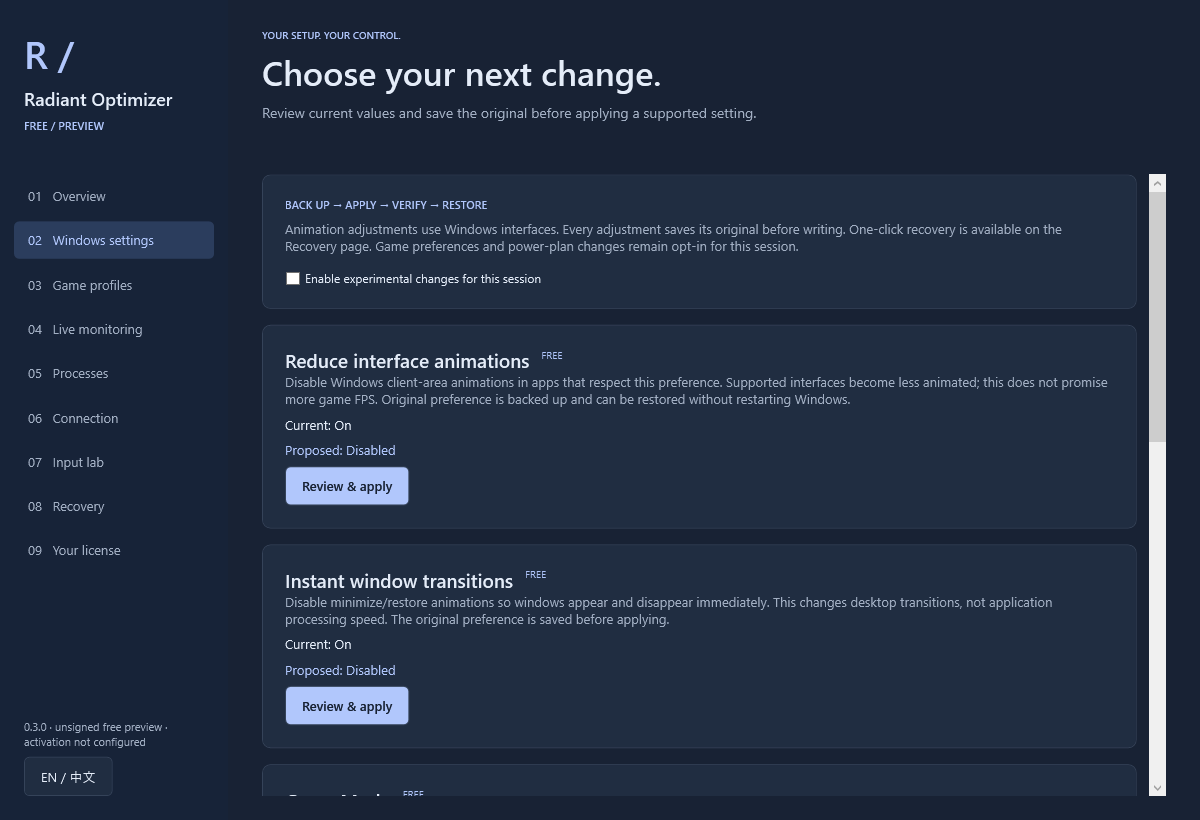
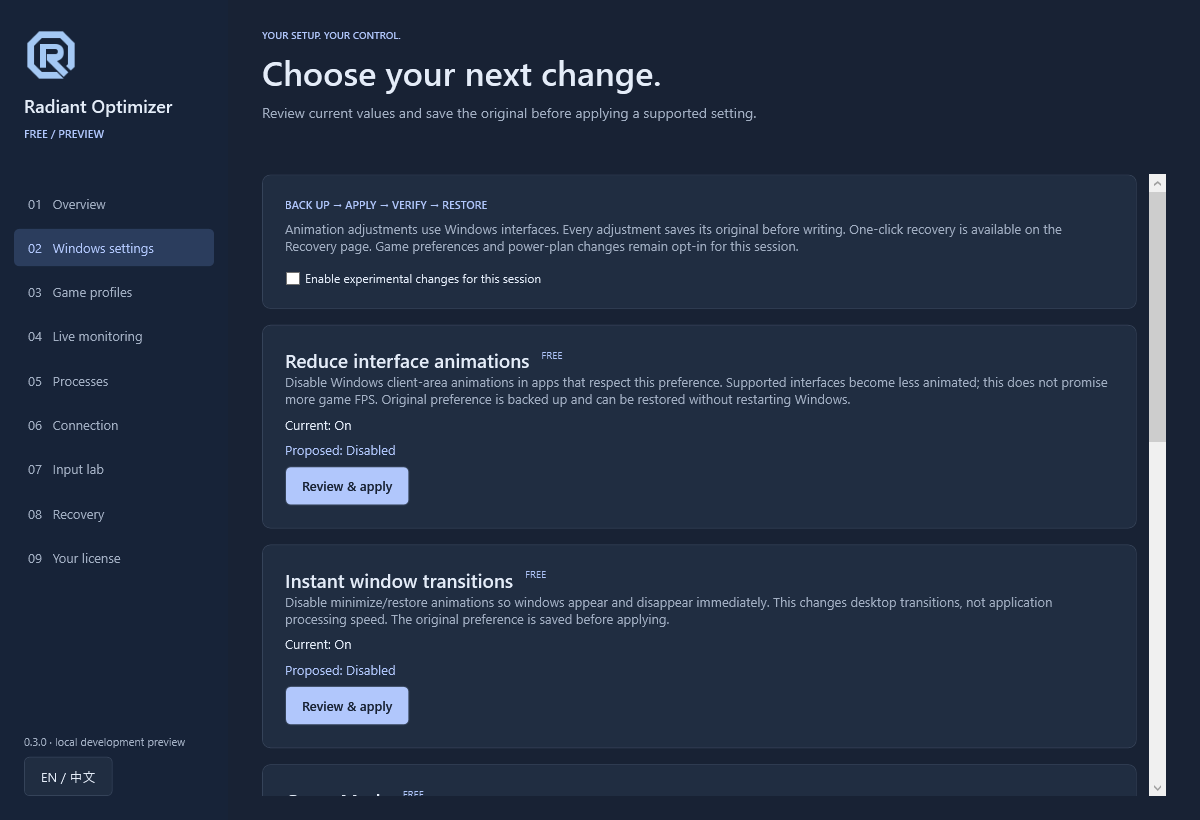
feat: introduce RO monogram across web and desktop

diff --git a/src/styles/design-previews.css b/src/styles/design-previews.css
@@ -149,14 +149,11 @@ body:has(.design-previews) .tsqd-open-btn-container {
   white-space: nowrap;
 }
 .pv-brand-mark {
-  display: grid;
-  place-items: center;
-  width: 29px;
-  height: 32px;
-  color: var(--pv-accent);
-  font-family: 'Libre Baskerville', Georgia, serif;
-  font-size: 31px;
-  font-weight: 400;
+  display: block;
+  width: 36px;
+  height: 36px;
+  flex-shrink: 0;
+  object-fit: contain;
 }
 .pv-header nav {
   display: flex;
@@ -1373,8 +1370,8 @@ body:has(.design-previews) .tsqd-open-btn-container {
     letter-spacing: -0.4px;
   }
   .pv-brand-mark {
-    font-size: 26px;
-    width: 22px;
+    width: 30px;
+    height: 30px;
   }
   .pv-header-download {
     padding: 8px 10px;

diff --git a/src/blocks/radiant/product.tsx b/src/blocks/radiant/product.tsx
@@ -26,9 +26,13 @@ export type PreviewStyle = 'paper' | 'atlas' | 'cinema';
 function PreviewBrand() {
   return (
     <a href="#preview-home" className="pv-brand">
-      <span className="pv-brand-mark" aria-hidden="true">
-        {envConfigs.app_name.slice(0, 1).toLowerCase()}.
-      </span>
+      <img
+        className="pv-brand-mark"
+        src={envConfigs.app_logo || '/logo.svg'}
+        width={36}
+        height={36}
+        alt=""
+      />
       <span>{envConfigs.app_name}</span>
     </a>
   );

diff --git a/src/routes/__root.tsx b/src/routes/__root.tsx
@@ -69,8 +69,13 @@ export const Route = createRootRoute({
         { name: 'description', content: envConfigs.app_description },
       ],
       links: [
+        { rel: 'icon', href: '/favicon.ico', sizes: 'any' },
         { rel: 'icon', href: '/favicon.svg', type: 'image/svg+xml' },
-        { rel: 'apple-touch-icon', href: '/favicon.svg' },
+        {
+          rel: 'apple-touch-icon',
+          href: '/apple-touch-icon.png',
+          sizes: '180x180',
+        },
       ],
     };
   },

diff --git a/src/blocks/radiant/shell.tsx b/src/blocks/radiant/shell.tsx
@@ -25,9 +25,12 @@ export function RadiantShell({
   ];
   const brand = (
     <>
-      <span className="radiant-wordmark" aria-hidden="true">
-        {envConfigs.app_name.slice(0, 1).toLowerCase()}.
-      </span>
+      <img
+        src={envConfigs.app_logo || '/logo.svg'}
+        width={36}
+        height={36}
+        alt=""
+      />
       <span>{envConfigs.app_name}</span>
     </>
   );

diff --git a/src/styles/radiant.css b/src/styles/radiant.css
@@ -23,12 +23,6 @@
   --r-text: #e8edf5;
   --r-lime: #a4c8f4;
 }
-.radiant-cinema .brand .radiant-wordmark {
-  color: #a4c8f4;
-  font-size: 34px;
-  font-weight: 600;
-  letter-spacing: -3px;
-}
 .games-intro {
   padding-block: 48px 32px;
   border-bottom: 1px solid var(--r-border);

diff --git a/desktop/Radiant.App/MainWindow.cs b/desktop/Radiant.App/MainWindow.cs
@@ -4,6 +4,7 @@ using System.IO;
 using System.Windows;
 using System.Windows.Controls;
 using System.Windows.Media;
+using System.Windows.Media.Imaging;
 using Radiant.Core;
 using Radiant.Licensing;
 using Radiant.Windows;
@@ -43,6 +44,7 @@ public sealed partial class MainWindow : Window
         licenses = new LicenseClient(settings.ServerUrl, dataDirectory, ProductSettings.TrustedKeys());
         chinese = File.Exists(Path.Combine(dataDirectory, "language.zh"));
         Title = settings.AppName;
+        Icon = new BitmapImage(new Uri("pack://application:,,,/Assets/AppIcon.ico"));
         Width = 1220; Height = 840; MinWidth = 960; MinHeight = 660;
         Background = Ui.Background; Foreground = Ui.Foreground;
         FontFamily = new FontFamily("Segoe UI");
@@ -51,7 +53,14 @@ public sealed partial class MainWindow : Window
         shell.ColumnDefinitions.Add(new ColumnDefinition { Width = new GridLength(228) });
         shell.ColumnDefinitions.Add(new ColumnDefinition());
         var sidebar = new DockPanel { Background = Ui.Brush("#172338"), Margin = new Thickness(0) };
-        var brand = Ui.Stack(Ui.Text("R /", 38, Ui.Accent, true), Ui.Text(settings.AppName, 18, bold: true), edition);
+        var brandMark = new Image
+        {
+            Source = new BitmapImage(new Uri("pack://application:,,,/Assets/BrandMark.png")),
+            Width = 54, Height = 54, HorizontalAlignment = HorizontalAlignment.Left,
+            Margin = new Thickness(0, 0, 0, 12)
+        };
+        RenderOptions.SetBitmapScalingMode(brandMark, BitmapScalingMode.HighQuality);
+        var brand = Ui.Stack(brandMark, Ui.Text(settings.AppName, 18, bold: true), edition);
         brand.Margin = new Thickness(24, 28, 18, 36);
         DockPanel.SetDock(brand, Dock.Top); sidebar.Children.Add(brand);
         var bottom = Ui.Stack(Ui.Text("0.3.0 · " + settings.Channel, 11, Ui.Muted),

diff --git a/docs/brand/README.md b/docs/brand/README.md
@@ -1,0 +1,47 @@
+# RO logo
+
+The mark combines a chamfered O ring with a geometric R. A diagonal opening
+continues the R's leg, suggesting forward motion. Ice blue (`#A4C8F4`) and
+midnight (`#101C2B`) match the product's existing palette.
+
+- Master: `public/brand/ro-mark.svg` (transparent ice blue).
+- Light backgrounds: `public/brand/ro-mark-dark.svg`.
+- Transparent PNG: `public/brand/ro-mark.png` (512 × 512).
+- Application tile: `public/brand/app-icon.png` (512 × 512).
+- Website default: `public/logo.svg`.
+- Browser and Windows icons: `public/favicon.svg`, `public/favicon.ico`.
+- Apple touch icon: `public/apple-touch-icon.png` (180 × 180, opaque).
+- Presentation: `docs/brand/logo-preview.png`.
+
+The ICO contains 16, 20, 24, 32, 40, 48, 64, 128 and 256 px frames.
+Website headers respect the existing `VITE_APP_LOGO` override. The desktop
+project embeds the mark and icon directly from these shared public assets.
+
+Edit the master SVG, then regenerate the derived files on Windows:
+
+```powershell
+powershell -NoProfile -STA -File scripts/export-brand-assets.ps1
+```
+
+The export script renders only the two paths in the master SVG using Windows
+Presentation Foundation. It has no third-party package dependency.
+Keep the surrounding clear space and use at least 24 px for primary navigation.
+The 16 px export is intended for browser and system chrome.
+
+## Concept provenance
+
+The initial concept was generated with the built-in imagegen tool, with
+`transparent_background: true`. The production master was reconstructed as
+two precise SVG paths so that browser and desktop exports share one geometry.
+The unmodified concept is saved as `ro-concept.png` in this folder.
+
+### Generation prompt
+
+Use case: logo-brand
+Asset type: original production logo concept for an existing Windows performance optimizer; a single monogram, suitable for subsequent native SVG implementation.
+Primary request: Redesign the product logo using both capital letters "R" and "O", with a precise technology aesthetic. Both letters must be recognizable within one unified compact emblem.
+Design: an engineered geometric O ring with clipped/chamfered corners surrounding a bold custom R. Integrate the R's diagonal leg into an intentional opening in the lower right of the O so the two forms feel connected, but keep generous negative space between the inner R and the outer O. The diagonal has a clean 45-degree speed-cut ending. Balanced strong silhouette, economical geometry, thick consistent weights that remain legible at 32px.
+Style/medium: premium flat vector-style logo, crisp edges, precise geometric construction.
+Color palette: one solid ice blue #A4C8F4, selected from the existing product's midnight-blue visual identity. No second color.
+Composition: one single centered isolated emblem on a fully transparent square canvas. Emblem fills about 78% of width and height with even clear margins.
+Constraints: original logo; both R and O evident; no other lettering, no brand wordmark, no tagline, no mockups, no shadows, no 3D, no texture, no glow, no gradients, no background tile, no tiny circuit traces, no extra orbit lines, no watermark. Flat single solid color on actual transparency.

diff --git a/public/design-preview/ASSET-SOURCES.md b/public/design-preview/ASSET-SOURCES.md
@@ -7,6 +7,10 @@
 under `desktop/`, version 0.3.0, at 1200 × 820. The homepage uses these images
 with the approved C / Midnight blue palette. No competitor screenshots are used.
 
+The current views use the RO monogram from `public/brand/ro-mark.svg`, rendered
+from the client's visual tree after the logo update. Regenerating these views
+does not apply or restore any settings. See `docs/brand/README.md` for logo assets.
+
 Overview uses actual sampled hardware information from the development PC, not
 promised results for another machine. Windows settings shows the actual optional
 animation controls. Recovery shows real native acceptance records: all three
